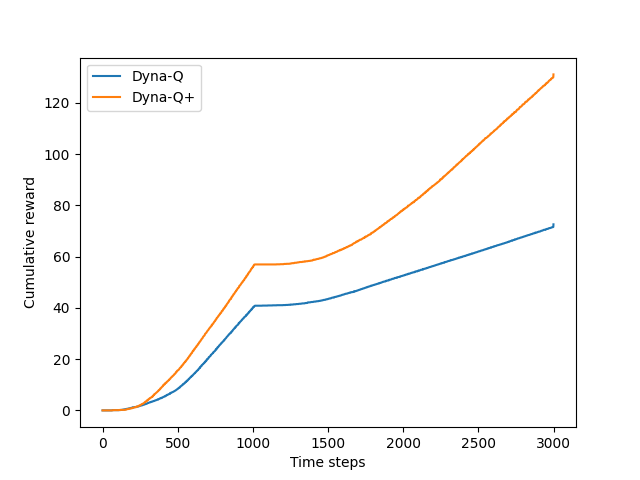
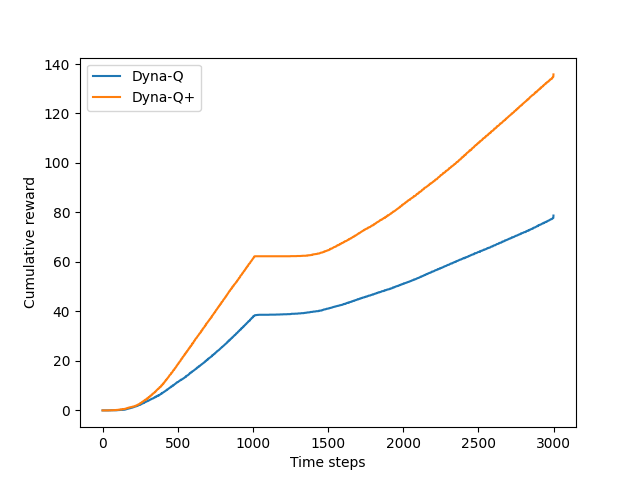
prioritized sweeping

diff --git a/mazes/src/functions.py b/mazes/src/functions.py
@@ -199,67 +199,83 @@ def prioritized_sweeping(action_value_estimates, model, maze, dyna_params):
     # region Body
 
     # Start at the maze's start state
-
+    state = maze.start
 
     # Track the number of steps in this episode
-
+    steps = 0
 
     # Track the number of backups in planning phase
-
+    backups = 0
 
     # While the agent hasn't reached its goal
+    while state not in maze.goals:
 
         # increment the number of steps
-
+        steps += 1
 
         # choose an action
-
+        action = choose_action(state, action_value_estimates, maze, dyna_params)
 
         # get the next state and reward
-
+        next_state, reward = maze.step(state, action)
 
         # feed the model with experience
-
+        model.feed(state, action, next_state, reward)
 
         # get the priority for current state-action pair
-
+        priority = np.abs(reward
+                          + dyna_params.discount * np.max(action_value_estimates[next_state[0], next_state[1], :])
+                          - action_value_estimates[state[0], state[1], action])
 
         # check whether priority exceeds threshold
-
+        if priority > dyna_params.threshold:
+            model.insert(priority, state, action)
 
         # start planning
-
+        planning_step = 0
 
         # planning for several steps (although, keep planning until the priority queue becomes empty will converge much faster)
-
+        while planning_step < dyna_params.planning_steps and not model.empty():
             # get a sample with the highest priority from the model
-
+            priority, state_, action_, next_state_, reward_ = model.sample()
 
             # update the state action value for the sample
-
+            delta = (reward_ + dyna_params.discount
+                     * np.max(action_value_estimates[next_state_[0], next_state_[1], :])
+                     - action_value_estimates[state_[0], state_[1], action_])
 
             # update action-value estimates
-
+            action_value_estimates[state_[0], state_[1], action_] += dyna_params.step_size * delta
 
             # deal with all the predecessors of the sample state
+            # Fix: Convert state_ to tuple for dictionary key lookup
+            state_key = tuple(state_)
+            if state_key in model.predecessors:
+                for state_predecessors, action_predecessors in model.predecessors[state_key]:
+                    # Get the reward from the model for this state-action pair
+                    reward_pre = model.model[tuple(state_predecessors)][action_predecessors][1]
 
+                    priority = np.abs(reward_pre + dyna_params.discount
+                                      * np.max(action_value_estimates[state_[0], state_[1], :])
+                                      - action_value_estimates[
+                                          state_predecessors[0], state_predecessors[1], action_predecessors])
 
-                # check whether priority exceeds threshold
-
+                    # check whether priority exceeds threshold
+                    if priority > dyna_params.threshold:
+                        model.insert(priority, state_predecessors, action_predecessors)
 
             # increment the planning step
-
+            planning_step += 1
 
         # move to the next state
-
+        state = next_state
 
         # update the number of backups
+        backups += planning_step + 1
 
-
-
+    return backups
 
     # endregion Body
-
 def check_path(action_value_estimates, maze):
     # region Summary
     """
